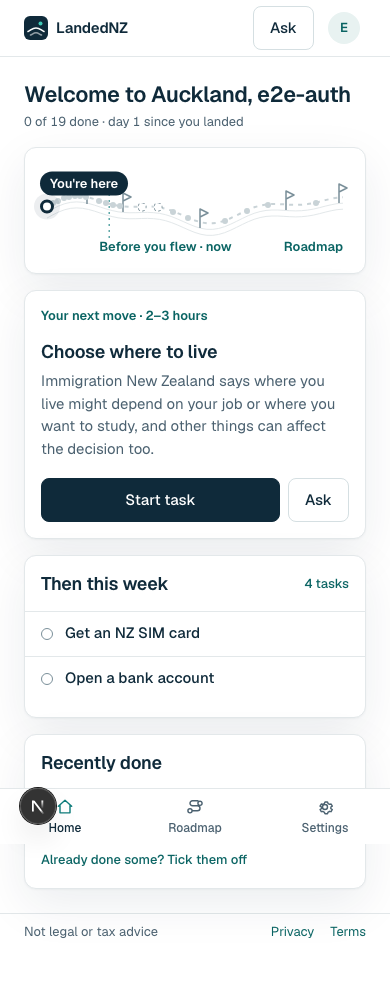
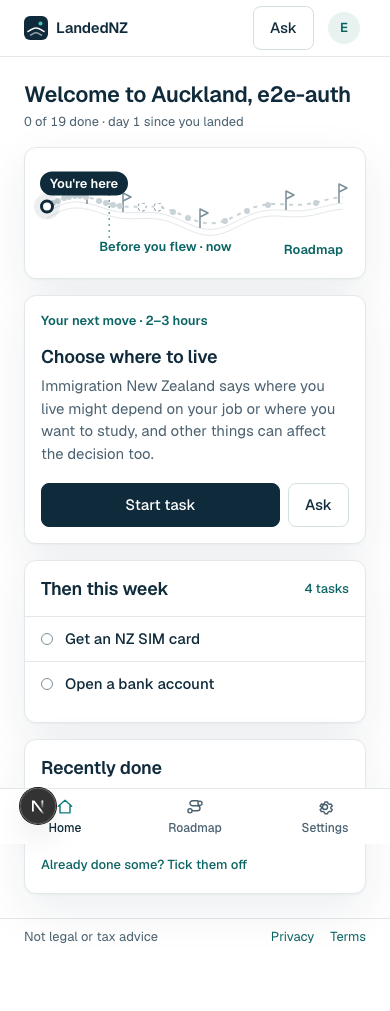
docs(design): gate critique record and re-shot screenshots

diff --git a/apps/api/src/features/chat/service.persistence.test.ts b/apps/api/src/features/chat/service.persistence.test.ts
@@ -13,6 +13,7 @@ import { FastifyInstance } from 'fastify';
 import { db } from '../../shared/db.js';
 import { createTestUser, deleteTestUser } from '../../test-utils/supabase-user.js';
 import { buildApp } from '../../server.js';
+import { config } from '../../shared/config.js';
 
 const TS = Date.now();
 let TEST_EMAIL: string;
@@ -213,18 +214,26 @@ describe('AC-4-15: ChatMessage persisted both roles — retrievedChunks + guardr
 });
 
 describe('SSE stream CORS', () => {
-  test('echoes a configured origin and omits a foreign one', async () => {
-    const send = (origin: string) =>
-      app.inject({
-        method: 'POST',
-        url: `/chat/sessions/${TEST_SESSION_ID}/messages`,
-        headers: { Authorization: `Bearer ${TEST_JWT_TOKEN}`, origin },
-        payload: { content: 'CORS check' },
-      });
-    const allowed = await send('http://localhost:3000');
-    expect(allowed.headers['access-control-allow-origin']).toBe('http://localhost:3000');
-    expect(allowed.headers['vary']).toBe('Origin');
-    const denied = await send('http://evil.example');
-    expect(denied.headers['access-control-allow-origin']).toBeUndefined();
+  const send = (origin?: string) =>
+    app.inject({
+      method: 'POST',
+      url: `/chat/sessions/${TEST_SESSION_ID}/messages`,
+      headers: { Authorization: `Bearer ${TEST_JWT_TOKEN}`, ...(origin && { origin }) },
+      payload: { content: 'CORS check' },
+    });
+
+  test('echoes a configured origin with credentials and Vary', async () => {
+    const allowedOrigin = config.corsOrigin[0];
+    const res = await send(allowedOrigin);
+    expect(res.headers['access-control-allow-origin']).toBe(allowedOrigin);
+    expect(res.headers['access-control-allow-credentials']).toBe('true');
+    expect(res.headers['vary']).toBe('Origin');
+  }, 10000);
+
+  test.each([['a foreign origin', 'http://evil.example'], ['no origin', undefined]])('omits CORS headers for %s', async (_name, origin) => {
+    const res = await send(origin);
+    expect(res.headers['access-control-allow-origin']).toBeUndefined();
+    expect(res.headers['access-control-allow-credentials']).toBeUndefined();
+    expect(res.headers['vary']).toBe('Origin');
   }, 10000);
 });

diff --git a/apps/web/e2e/a11y.spec.ts b/apps/web/e2e/a11y.spec.ts
@@ -33,6 +33,8 @@ for (const [width, height] of [[1440, 900], [390, 844]]) {
     await expect(page.getByRole('heading', { level: 1, name: 'When do you land?' })).toBeVisible() // /onboarding?step=5 with answers
     await page.locator('[role=gridcell][data-today]').click()
     await expectAxe(page, '/onboarding?step=5')
+    await page.goto('/signin')
+    await expect(page.getByRole('heading', { level: 1, name: 'Save your roadmap' })).toBeVisible()
     await expectNoViolations(page, '/signin') // with held answers: "Save your roadmap"
 
     await page.goto('/signin')

diff --git a/docs/design/r1-final/gate/critique.md b/docs/design/r1-final/gate/critique.md
@@ -1,0 +1,30 @@
+# Impeccable critique and audit, final screens (P7 Step 4)
+
+WARNING: DEGRADED: single-context. The critique prescribes two isolated sub-agents (design review, detector). This agent has no sub-agent tool, so both ran inline in one context, design review first, then detector. Run date 2026-10-29, target apps/web (all pages in the gate screenshots in this folder plus source). Context: PRODUCT.md (Operate mode for signed-in pages, Persuade for landing).
+
+## Assessment A: design review (from the gate screenshots and code)
+Specificity: the road/rail, "You're here" pill, unlock arcs, Today line and the dark answers panel are specific to a dependency-aware settlement roadmap; not interchangeable with another product.
+Heuristics (0-4): visibility of status 4 (day count, done count, Today line); match to real world 3 (task names are plain English); user control 4 (undo, Cancel, Back); consistency 3 (every section a Card; one page-width difference vs boards, below); error prevention 3; recognition 4; flexibility 3 (Ask `/` shortcut); minimalism 3; error recovery 3 (ApiDown retry); help 3 (sources beside steps).
+Cognitive load: Home shows one next move plus three rows; Roadmap collapses stages ("Show n more"); Settings shows one question at a time. No decision point over 4 options except the visa list (8 radios, a single question).
+Strengths: one obvious next step per page; calm type scale (e2e enforced); cited sources visible.
+Findings:
+- P0: none.
+- P1: none.
+- P2: signed-in content column is 1072 px at 1440 (--container-page 1120 minus 24 px padding) against the boards' 1200 px, and the phone side gutter is 24 px against the boards' 16 px. Not fixed: owner decision (shared by public pages and the road geometry).
+- P2: Home phone "Roadmap" link (59x19 px) and Roadmap task row links (23 px tall) under the 24 px target size (WCAG 2.2 SC 2.5.8). FIXED (min-h-6 on both).
+- P3: Roadmap shows a subtitle "Done some already? Open a task and mark it done." not on the board.
+- P3: Task page scrolls as a whole; the board scrolls inside the card. Content-driven.
+- P3: dev-only Next.js badge in screenshots.
+
+## Assessment B: detector and measured evidence
+- `impeccable detect --json src`: `[]` (0 findings), before and after the fixes.
+- Measured at 390x844 (signed-in, six routes: /, /signin, /app, /app/roadmap, /app/roadmap?task=T08, /settings): no horizontal overflow; before the fix 2 targets under 24 px (Home "Roadmap" link 59x19, task row link 236x23); after the fix 0.
+- axe (wcag2a/2aa/21aa/22aa) via e2e a11y at 1440 and 390 on all pages including the Save screen and the date step: 0 violations.
+- Type scale via e2e type-scale on public and signed-in pages: 0 offenders.
+- Reduced motion: respected (useReducedMotion hook, globals.css rule).
+
+## Audit scores (0-4)
+Accessibility 4, Performance 3 (not profiled; no layout thrash seen), Theming 4 (tokens in @theme, light only), Responsive 3 (one gutter difference vs boards), Implementation integrity 4 (detector clean).
+
+## Outcome
+No P0/P1. P2/P3 target-size items fixed; width/gutter handed to the owner.
